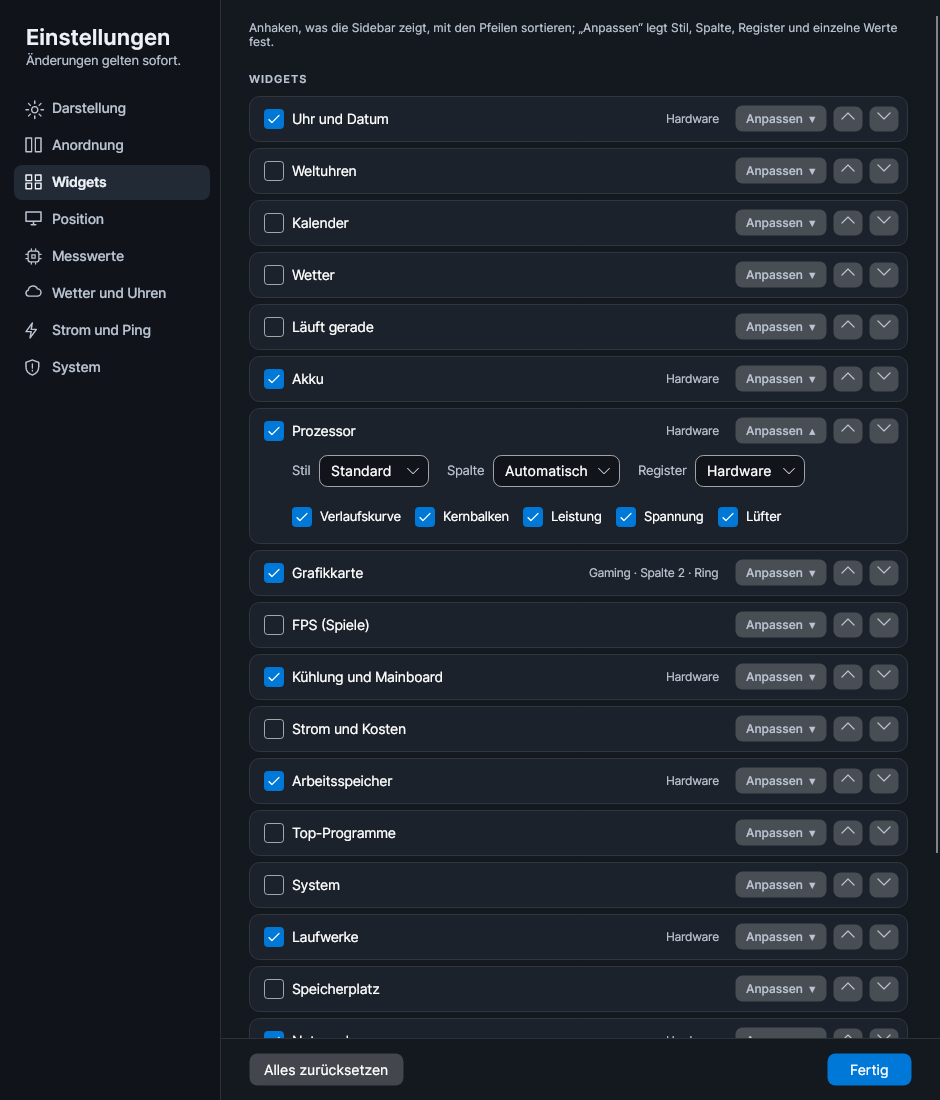
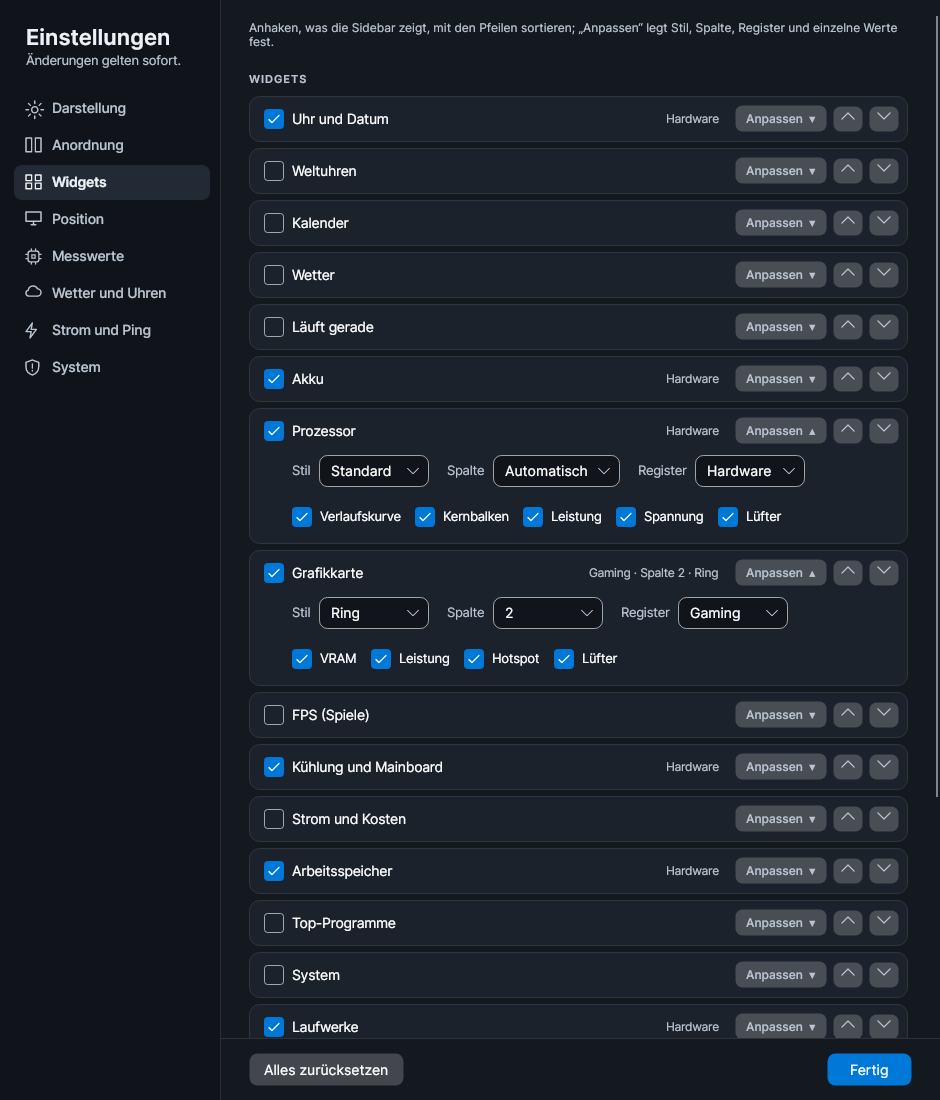
1.9.5: single values in all widget styles
Claude-Session: https://claude.ai/code/session_013ZRAQvxSE7kvrCVH4BjrzG

diff --git a/src/Lumen.App/Styles.cs b/src/Lumen.App/Styles.cs
@@ -143,6 +143,112 @@ public static class Summaries
         return Summary.Empty;
     }
 
+    // The history chart a widget can show in the Graph and Minimal styles, by its value key.
+    public static string? ChartKey(WidgetKind kind) => kind switch
+    {
+        WidgetKind.Cpu => "cpu.chart", WidgetKind.Gpu => "gpu.chart", WidgetKind.Network => "net.chart",
+        WidgetKind.Fps => "fps.chart", WidgetKind.Ping => "ping.chart", WidgetKind.Power => "power.chart",
+        _ => null
+    };
+
+    // The single values the compact styles can show as small figures, keyed like the Standard card's.
+    public static readonly Dictionary<WidgetKind, string[]> ExtraKeys = new()
+    {
+        [WidgetKind.Cpu] = new[] { "cpu.power", "cpu.voltage", "cpu.fan" },
+        [WidgetKind.Gpu] = new[] { "gpu.vram", "gpu.power", "gpu.hotspot", "gpu.fan" },
+        [WidgetKind.Memory] = new[] { "mem.free", "mem.total", "mem.peak" },
+        [WidgetKind.Battery] = new[] { "battery.time", "battery.rate", "battery.health" },
+        [WidgetKind.Cooling] = new[] { "cooling.fans", "cooling.board" },
+        [WidgetKind.Network] = new[] { "net.use", "net.peak", "net.address" },
+        [WidgetKind.Fps] = new[] { "fps.frametime" },
+        [WidgetKind.Ping] = new[] { "ping.jitter", "ping.loss", "ping.target" },
+        [WidgetKind.Power] = new[] { "power.cost" },
+        [WidgetKind.Weather] = new[] { "weather.feels", "weather.wind", "weather.humidity" },
+        [WidgetKind.System] = new[] { "system.boot", "system.processes", "system.threads" },
+        [WidgetKind.DataUsage] = new[] { "data.week", "data.month" },
+    };
+
+    // Which of a widget's values a style can show: all of them in Standard; in the others the
+    // small figures, plus the history chart in Graph and Minimal.
+    public static bool Supports(WidgetKind kind, WidgetStyle style, string key) =>
+        style == WidgetStyle.Standard || !Settings.HasStyles(kind)
+        || ExtraKeys.TryGetValue(kind, out var keys) && keys.Contains(key)
+        || style is WidgetStyle.Graph or WidgetStyle.Minimal && key == ChartKey(kind);
+
+    // The small figures for the compact styles: (label, value), only those the user keeps switched on.
+    public static List<(string Label, string Value)> Extras(WidgetKind kind, int index, Snapshot s, History h, Settings set)
+    {
+        var list = new List<(string, string)>();
+        void Add(string key, string label, string value) { if (set.Shows(key)) list.Add((label, value)); }
+        string Tc(double? c) => c is null ? Format.Missing : Format.Temperature(c, set.Fahrenheit) + " " + Format.TemperatureUnit(set.Fahrenheit);
+        double? Peak(string key) { var v = h.Read(key); return v.Length > 0 ? v.Max() : null; }
+        switch (kind)
+        {
+            case WidgetKind.Cpu:
+                Add("cpu.power", T("Power"), Format.Watts(s.Cpu?.PowerW));
+                Add("cpu.voltage", T("Voltage"), Format.Volts(s.Cpu?.Voltage));
+                Add("cpu.fan", T("Fan"), Format.Rpm(s.Cpu?.FanRpm));
+                break;
+            case WidgetKind.Gpu:
+            {
+                var g = GpuGroup.Visible(s, set).ElementAtOrDefault(index);
+                Add("gpu.vram", "VRAM", g?.MemoryUsedMb is double u && g.MemoryTotalMb is double t && t > 0 ? $"{Format.Number(u / 1024, "0.0")}/{Format.Number(t / 1024, "0.#")} GB" : Format.Missing);
+                Add("gpu.power", T("Power"), Format.Watts(g?.PowerW));
+                Add("gpu.hotspot", T("Hot spot"), Tc(g?.HotSpot));
+                Add("gpu.fan", T("Fan"), Format.Rpm(g?.FanRpm));
+                break;
+            }
+            case WidgetKind.Memory:
+                Add("mem.free", T("Available"), Format.Gigabytes(s.Memory?.AvailableGb));
+                Add("mem.total", T("Installed"), Format.Gigabytes(s.Memory?.TotalGb));
+                Add("mem.peak", T("2-min peak"), Format.Percent(Peak("mem.load")));
+                break;
+            case WidgetKind.Battery:
+                Add("battery.time", T("Time left"), s.Battery?.MinutesLeft is double min ? Format.Duration(TimeSpan.FromMinutes(min)) : Format.Missing);
+                Add("battery.rate", T("Rate"), Format.Watts(s.Battery?.PowerW));
+                Add("battery.health", T("Health"), s.Battery?.WearPercent is double w ? Format.Percent(100 - w) : Format.Missing);
+                break;
+            case WidgetKind.Cooling:
+                Add("cooling.fans", T("Fans"), s.Fans.Count == 0 ? Format.Missing : $"{s.Fans.Count(f => f.Rpm > 0)}/{s.Fans.Count}");
+                if (set.Shows("cooling.board")) foreach (var t in s.BoardTemps) list.Add((Names.Temp(t.Name, set), Tc(t.Celsius)));
+                break;
+            case WidgetKind.Network:
+            {
+                var n = s.Network;
+                Add("net.use", T("Link use"), Format.Bits(n?.DownloadBytesPerSecond * 8));
+                Add("net.peak", T("2-min peak"), Format.Rate(Peak("net.down")));
+                Add("net.address", T("Address"), n?.Address ?? Format.Missing);
+                break;
+            }
+            case WidgetKind.Fps:
+                Add("fps.frametime", T("Frame time"), s.Fps is { } f ? Format.Milliseconds(f.FrameTimeMs) : Format.Missing);
+                break;
+            case WidgetKind.Ping:
+                Add("ping.jitter", T("Jitter"), Format.Milliseconds(s.Ping?.JitterMs));
+                Add("ping.loss", T("Loss"), s.Ping is { } pi ? Format.Percent(pi.LossPercent) : Format.Missing);
+                Add("ping.target", T("Target"), s.Ping?.Target ?? set.PingTarget);
+                break;
+            case WidgetKind.Power:
+                Add("power.cost", T("Today"), s.Usage is { } us ? Format.Money(us.KwhToday * set.PricePerKwh, set.Currency) : Format.Missing);
+                break;
+            case WidgetKind.Weather:
+                Add("weather.feels", T("Feels like"), Tc(s.Weather?.FeelsLikeC));
+                Add("weather.wind", T("Wind"), s.Weather?.WindKmh is double wk ? Format.Number(wk) + " km/h" : Format.Missing);
+                Add("weather.humidity", T("Humidity"), Format.Percent(s.Weather?.Humidity));
+                break;
+            case WidgetKind.System:
+                Add("system.boot", T("Started"), s.System is { } sy ? sy.BootTime.ToString("ddd HH:mm", L.Culture) : Format.Missing);
+                Add("system.processes", T("Processes"), s.System is { } sp ? sp.Processes.ToString(L.Culture) : Format.Missing);
+                Add("system.threads", T("Threads"), s.System is { } st ? st.Threads.ToString(L.Culture) : Format.Missing);
+                break;
+            case WidgetKind.DataUsage:
+                Add("data.week", T("This week"), s.Usage is { } dw ? Format.Size(dw.DownWeek) : Format.Missing);
+                Add("data.month", T("This month"), s.Usage is { } dm ? Format.Size(dm.DownMonth) : Format.Missing);
+                break;
+        }
+        return list;
+    }
+
     // "2 d 3 h" → ("2", "d 3 h"); "3 h 12 m" → ("3", "h 12 m").
     private static (string, string) SplitDuration(TimeSpan t)
     {
@@ -202,6 +308,7 @@ public sealed class RingTile : Border, IWidget
 {
     private readonly WidgetKind kind; private readonly int index; private readonly Settings s; private readonly Palette p;
     private readonly RingGauge ring; private readonly TextBlock title, value, unit, caption, name; private readonly Control glyphHost;
+    private readonly ExtrasView extras;
 
     public RingTile(WidgetKind kind, int index, Palette p, Metrics m, Settings s)
     {
@@ -231,7 +338,8 @@ public sealed class RingTile : Border, IWidget
         caption = Ui.Text("", 11.5, p.Soft, numbers: true);
         caption.HorizontalAlignment = HorizontalAlignment.Center;
         caption.Margin = new Thickness(0, -6, 0, 0);
-        Child = Ui.Stack(4, Ui.Stack(0, head, name), gauge, caption);
+        extras = new ExtrasView(p, false) { Margin = new Thickness(0, 2, 0, 0) };
+        Child = Ui.Stack(4, Ui.Stack(0, head, name), gauge, caption, extras);
     }
 
     public void Update(Snapshot snap, History h)
@@ -246,6 +354,7 @@ public sealed class RingTile : Border, IWidget
         unit.Text = sum.Value == Format.Missing ? "" : sum.Unit;
         ring.Animate(sum.Fraction, sum.Color);
         caption.Text = sum.Caption;
+        extras.Set(Summaries.Extras(kind, index, snap, h, s));
     }
 }
 
@@ -254,6 +363,7 @@ public sealed class MinimalRow : Border, IWidget
 {
     private readonly WidgetKind kind; private readonly int index; private readonly Settings s; private readonly Palette p;
     private readonly TextBlock title, caption, name; private readonly Hero hero; private readonly AreaChart spark; private readonly ContentControl glyph = new();
+    private readonly ExtrasView extras;
 
     public MinimalRow(WidgetKind kind, int index, Palette p, Metrics m, Settings s)
     {
@@ -270,7 +380,8 @@ public sealed class MinimalRow : Border, IWidget
         spark = new AreaChart { Height = m.Subtitles ? 30 : 24, LineWidth = 1.4, FillOpacity = .22, VerticalAlignment = VerticalAlignment.Bottom, Margin = new Thickness(12, 0, 0, 4) };
         name = Ui.Text("", 11, p.Soft);
         name.Margin = new Thickness(8, 0, 8, 0);
-        Child = Ui.Stack(0, Ui.Columns("Auto,Auto,*,Auto", glyph, title, name, caption), Ui.Columns("Auto,*", hero, spark));
+        extras = new ExtrasView(p, true) { Margin = new Thickness(0, 2, 0, 0) };
+        Child = Ui.Stack(0, Ui.Columns("Auto,Auto,*,Auto", glyph, title, name, caption), Ui.Columns("Auto,*", hero, spark), extras);
         Grid.SetColumn(caption, 3);
     }
 
@@ -283,7 +394,8 @@ public sealed class MinimalRow : Border, IWidget
         name.IsVisible = s.ShowNames && sum.Name.Length > 0;
         caption.Text = sum.Caption;
         hero.Set(sum.Value, sum.Unit, sum.Color);
-        spark.IsVisible = sum.Series.Length > 1;
+        spark.IsVisible = sum.Series.Length > 1 && (Summaries.ChartKey(kind) is not string key || s.Shows(key));
+        extras.Set(Summaries.Extras(kind, index, snap, h, s));
         spark.Max = sum.SeriesMax;
         spark.Set(sum.Series, sum.Color == p.Ink ? p.Cool : sum.Color);
     }

diff --git a/src/Lumen.App/Styles2.cs b/src/Lumen.App/Styles2.cs
@@ -12,6 +12,7 @@ public abstract class SummaryTile : Border, IWidget
     protected readonly WidgetKind Kind; protected readonly int Index; protected readonly Settings S; protected readonly Palette P; protected readonly Metrics M;
     private readonly TextBlock title, name;
     protected readonly TextBlock Caption;
+    protected readonly ExtrasView Extras;
     private readonly ContentControl glyph = new();
 
     protected SummaryTile(WidgetKind kind, int index, Palette p, Metrics m, Settings s, bool half)
@@ -22,6 +23,7 @@ public abstract class SummaryTile : Border, IWidget
         BorderThickness = new Thickness(1);
         CornerRadius = new CornerRadius(m.Radius);
         Padding = half ? new Thickness(12, m.Pad - 6, 12, m.Pad - 4) : new Thickness(m.Pad, m.Pad - 4, m.Pad, m.Pad - 2);
+        Extras = new ExtrasView(p, !half) { Margin = new Thickness(0, half ? 2 : 4, 0, 0) };
         title = Ui.Text("", half ? 11.5 : 12.5, p.Ink, FontWeight.SemiBold);
         title.Margin = new Thickness(7, 0, 0, 0);
         name = Ui.Text("", 10.5, p.Soft);
@@ -42,6 +44,7 @@ public abstract class SummaryTile : Border, IWidget
         name.Text = sum.Name;
         name.IsVisible = S.ShowNames && sum.Name.Length > 0;
         Caption.Text = sum.Caption;
+        Extras.Set(Summaries.Extras(Kind, Index, snap, h, S));
         Show(sum);
     }
 
@@ -63,6 +66,7 @@ public sealed class BarTile : SummaryTile
         body.Children.Add(Head);
         body.Children.Add(hero);
         body.Children.Add(meter);
+        body.Children.Add(Extras);
         Child = body;
     }
 
@@ -87,13 +91,15 @@ public sealed class GraphTile : SummaryTile
         var body = new StackPanel { Spacing = 6, Tag = "elastic" };
         body.Children.Add(Head);
         body.Children.Add(stage);
+        body.Children.Add(Extras);
         Child = body;
     }
 
     protected override void Show(Summary sum)
     {
         hero.Set(sum.Value, sum.Unit, sum.Color);
-        bool series = sum.Series.Length > 1;
+        // The history shows unless the user switched the widget's chart off.
+        bool series = sum.Series.Length > 1 && (Summaries.ChartKey(Kind) is not string key || S.Shows(key));
         // Readings without a history (weather, battery) show their level as a bar under the value.
         chart.Opacity = series ? 1 : 0;
         meter.IsVisible = !series;
@@ -121,6 +127,7 @@ public sealed class NumberTile : SummaryTile
         body.Children.Add(Ui.Row(0, value, unit));
         body.Children.Add(meter);
         body.Children.Add(Caption);
+        body.Children.Add(Extras);
         Child = body;
     }
 
@@ -130,5 +137,56 @@ public sealed class NumberTile : SummaryTile
         value.Foreground = Palette.Brush(sum.Color);
         unit.Text = sum.Value == Format.Missing ? "" : sum.Unit;
         meter.Set(sum.Fraction, Shade(sum));
+    }
+}
+
+// The small figures under a compact widget: side by side in full-width styles, one per line in half-width tiles.
+public sealed class ExtrasView : ContentControl
+{
+    private readonly Palette p; private readonly bool wide;
+    private string shape = "";
+    private readonly List<Stat> stats = new();
+    private readonly List<TextBlock> values = new();
+
+    public ExtrasView(Palette p, bool wide) { this.p = p; this.wide = wide; }
+
+    public void Set(List<(string Label, string Value)> items)
+    {
+        IsVisible = items.Count > 0;
+        // Wide: three per line (like the Standard cards), up to two lines; tiles: three lines,
+        // so the gauge stays the main thing.
+        var shown = items.Take(wide ? 6 : 3).ToList();
+        string now = string.Join("|", shown.Select(i => i.Label));
+        if (now != shape)
+        {
+            shape = now;
+            stats.Clear(); values.Clear();
+            if (wide)
+            {
+                foreach (var (label, _) in shown) stats.Add(new Stat(label, p));
+                var grid = new Avalonia.Controls.Primitives.UniformGrid { Columns = 3 };
+                foreach (var st in stats) { st.Margin = new Thickness(0, 0, 6, 4); grid.Children.Add(st); }
+                Content = shown.Count == 0 ? null : grid;
+            }
+            else
+            {
+                var rows = new StackPanel { Spacing = 1 };
+                foreach (var (label, _) in shown)
+                {
+                    var l = Ui.Text(label, 10.5, p.Faint, FontWeight.Medium);
+                    var v = Ui.Text("", 10.5, p.Ink, FontWeight.Medium, true);
+                    v.HorizontalAlignment = HorizontalAlignment.Right;
+                    values.Add(v);
+                    var row = Ui.Columns("*,Auto", l, v);
+                    rows.Children.Add(row);
+                }
+                Content = rows;
+            }
+        }
+        for (int i = 0; i < shown.Count; i++)
+        {
+            if (wide) stats[i].Value = shown[i].Value;
+            else values[i].Text = shown[i].Value;
+        }
     }
 }

diff --git a/src/Lumen.App/SettingsWindow.cs b/src/Lumen.App/SettingsWindow.cs
@@ -342,7 +342,7 @@ public sealed class SettingsWindow : Window
             // Style and column first, then the single values.
             var options = new WrapPanel { Margin = new Thickness(28, 0, 0, 0) };
             if (Settings.HasStyles(slot.Kind))
-                options.Children.Add(Ui.Row(8, Ui.Text(T("Style"), 12.5, p.Soft), Choice(new[] { T("Standard"), T("Ring"), T("Minimal"), T("Bar"), T("Graph"), T("Tile") }, (int)slot.Style, i => slot.Style = (WidgetStyle)i, small: true)));
+                options.Children.Add(Ui.Row(8, Ui.Text(T("Style"), 12.5, p.Soft), Choice(new[] { T("Standard"), T("Ring"), T("Minimal"), T("Bar"), T("Graph"), T("Tile") }, (int)slot.Style, i => slot.Style = (WidgetStyle)i, rebuild: true, small: true)));
             if (s.ColumnsInUse > 1)
                 options.Children.Add(Ui.Row(8, Ui.Text(s.Horizontal ? T("Row") : T("Column"), 12.5, p.Soft), Choice(new[] { T("Automatic") }.Concat(Enumerable.Range(1, s.ColumnsInUse).Select(n => n.ToString())).ToList(), Math.Min(slot.Column, s.ColumnsInUse), i => slot.Column = i, small: true)));
             if (s.Pages > 1)
@@ -350,7 +350,8 @@ public sealed class SettingsWindow : Window
             foreach (var o in options.Children) o.Margin = new Thickness(0, 0, 18, 6);
             if (options.Children.Count > 0) panel.Children.Add(options);
             var wrap = new WrapPanel { Margin = new Thickness(28, 0, 0, 4) };
-            foreach (var (key, label) in Cards.Values(slot.Kind))
+            // Only the values the chosen style can show; the Standard card shows them all.
+            foreach (var (key, label) in Cards.Values(slot.Kind).Where(v => Summaries.Supports(slot.Kind, slot.Style, v.Key)))
             {
                 var c = new CheckBox { Content = label, IsChecked = s.Shows(key), FontSize = 12.5, Margin = new Thickness(0, 0, 14, 0) };
                 c.IsCheckedChanged += (_, _) =>

diff --git a/tools/Lumen.Shots/Program.cs b/tools/Lumen.Shots/Program.cs
@@ -309,7 +309,7 @@ toastContent.VerticalAlignment = VerticalAlignment.Bottom;
 toastContent.Margin = new Thickness(0, 0, 300 + 16, Taskbar + 16);
 DesktopShot("desktop-warning", new Settings { Language = "de" }, true, extra: toastContent);
 
-for (int i = 0; i < 8; i++) SettingsPage($"settings-de-{i}", true, "de", i, WidgetKind.Cpu);
+for (int i = 0; i < 8; i++) SettingsPage($"settings-de-{i}", true, "de", i, WidgetKind.Cpu, WidgetKind.Gpu);
 barSettings = true;
 SettingsPage("settings-de-bar-layout", true, "de", 1);
 SettingsPage("settings-en-bar-layout", true, "en", 1);

diff --git a/docs/release-notes/v1.9.5.md b/docs/release-notes/v1.9.5.md
@@ -1,0 +1,4 @@
+# Lumen 1.9.5
+
+- The Ring, Minimal, Bar, Graph and Tile styles now show the single values switched on for the widget (e.g. power, voltage and fan, VRAM and hot spot, jitter and loss); the Graph and Minimal styles respect the History chart switch.
+- Settings: under Customise each style lists only the values it can show; changing the style updates the list.
